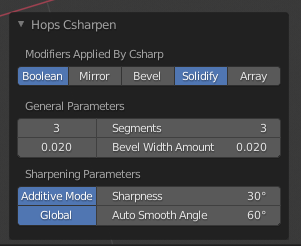
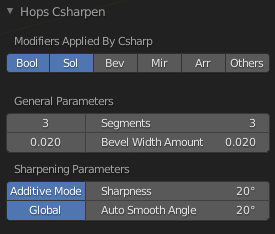
update

diff --git a/docs/csharpen.md b/docs/csharpen.md
@@ -15,14 +15,13 @@ Csharpen does the following things.
 
 If this sounds like the [ssharpen](ssharpen.md) that is because this is the complex version of that tool. Created at the same time for a more specific reason. **Sharpening / Applying modifiers / Setting up bevels.**
 
-This may sound strange but it allows for a very itterative forward workflow with boolean based workflows.
+This may sound strange but it allows for a very iterative forward workflow with boolean based workflows.
 
 Below is an example of it in action.
 
 ![csharpen](img/csharpen/c1.gif)
 
-In the above example I used simple cubes to boolean into the main shape. Then using cSharpen I was able to both bevel the form and apply the boolean modifier. After that I used another cube to boolean and when cSharpening it was able to ignore the bevel modifier and apply the boolean. This is a process I rinse and repeat to keep adding detail. In my opinion this is the best approach in blender for creating [such detail](http://www.neilblevins.com/cg_education/areas_of_visual_rest/areas_of_visual_rest.htm) in a focused manner with the fewest amount of keystrokes. Of course there is also adaptive subidivision and displacement however thats outside of the scope of this guide.
-
+In the above example I used simple cubes to boolean into the main shape. Then using cSharpen I was able to both bevel the form and apply the boolean modifier. After that I used another cube to boolean and when cSharpening it was able to ignore the bevel modifier and apply the boolean. This is a process I rinse and repeat to keep adding detail. In my opinion this is the best approach in blender for creating [such detail](http://www.neilblevins.com/cg_education/areas_of_visual_rest/areas_of_visual_rest.htm) in a focused manner with the fewest amount of keystrokes. Of course there is also adaptive subdivision and displacement however that is outside of the scope of this guide.
 
 ---
 
@@ -32,11 +31,20 @@ The F6 menu has options that are similar to [ssharpen](ssharpen.md) with a few a
 
 ![csharpen](img/csharpen/c2.png)
 
-- Modifiers (hold <kbd>shift</kbd> to select / deselect) defaults generally are fine with the exception of sometimes ignoring solidify as well
+- Modifiers defaults generally are fine with the exception of sometimes ignoring solidify as well when needed
+  - Booleans - csharp was born to apply booleans (on by default)
+  - Solidify - typically applied but by unchecking this will keep solidify live when needed
+  - Bevel - when checked will apply bevels using vertex groups and ignore angle and bevel weight mods initially
+  - Mirror - mirror is typically kept live but clicking mirror will make csharp apply mirror
+  - Array - array is typically kept live but clicking array will make csharp apply mirror
+  - Others - Triangulate / Subdivision / Screw and other mods related to non-d construction can now be applied here
 - general parameters - adjustments to cSharp
   - the left numbers are global parameters. Changing those will make csharp remember next time.
   - instance numbers - for changing the behavior of csharp for this one instance
 - sharpness - same reasons as [ssharpen](ssharpen.md)
+- autosmooth angle - angle the autosmooth will be set to by csharpen
+
+> Uncheck global to keep the initial autosmooth set manually by you the user.
 
 ---
 
@@ -51,6 +59,62 @@ By default it ignores the bevel modifier. Under no circumstances do we apply the
 With solidify it can be useful to keep the solidify live for non destructive workflows.
 
 ![csharpen](img/csharpen/c4.gif)
+
+---
+
+## Csharpen with Non-D Objects
+
+Csharp now has support for non-destructive objects and can be used in applying the modifiers and moving the object forward with a boolean or bevelling workflow.
+
+> Keep in mind if you want to simple "add a bevel". Ctrl + click bwidth (angle 30) or ctrl + shift + click bwidth (angle 60) bevel mod added. When csharp is used the goal is to apply modifiers and set it up for a boolean / bevel workflow.
+
+In this example a simple non-d object is created.
+
+![csharpen](img/csharpen/c5.gif)
+
+By checking bevel and other the shape can be applied and converted for a boolean workflow.
+
+> Applying everything like this is not necessary since bevels could be stacked on bevels with multiple levels nondestructively.
+
+![csharpen](img/csharpen/c6.gif)
+
+---
+
+## Csharp w/ Bevel Vgroup
+
+Special care was taken to make csharp capable of applying vgroup bevel modifiers when needed.
+
+![csharpen](img/csharpen/c7.gif)
+
+> This can be useful for transitioning from non-destructive to destructive.
+
+---
+
+# Additional Csharp Tips
+
+Csharp has pre-emptive properties in the workflow area of the HOPS N Panel or the ctrl + ~ helper workflow area. These can be used to adjust the behavior of csharp before it is even used.
+
+![csharpen](img/csharpen/c8.png)
+
+WN - weighted normal mod will be added with csharp. (Off by default)
+![csharpen](img/csharpen/csharp1.gif)
+
+HN - will check the harden normal box on the bevel modifier when they are added.
+![csharpen](img/csharpen/csharp2.gif)
+
+Sharp options pertain to markings. On edges meeting the "sharpness" threshold, the following edge markings will be performed.
+- crease (crease at 1 to resist sub-d)
+- seam (easy region selection with L in face mode)
+- bweight (bevel weighted workflows where bevel is able to be controlled)
+- sharp (shading override for sharp shading)
+
+![csharpen](img/csharpen/csharp3.gif)
+
+The Global box will ensure ssharp and csharp override the autosmooth angle when ran. Unchecking global will keep the value on the user defined value. This can be useful when using a particular autosmooth and you dont want the workflow disturbed.
+
+> Notice how when Global is toggled off the csharp/ssharp operation will retain the autosmooth of the user.
+
+![csharpen](img/csharpen/csharp4.gif)
 
 ---
 

diff --git a/docs/mirror_symmetry.md b/docs/mirror_symmetry.md
@@ -11,7 +11,7 @@ Boolean workflows having bisecting mirror modifiers isn't ever ideal. With the n
 
 The mirror tool can be brought up with <kbd>Alt</kbd> + <kbd>X</kbd>
 
-The axis clicked on is the one intended to be kept.
+The axis clicked on is the one intended to be kept. Shift clicking will use multiple axis.
 
  ![mirror](img/mirror/mmm1.gif)
 
@@ -40,6 +40,12 @@ This one is one and done mirroring. It will mirror in the moment and not a secon
 ![mirror](img/mirror/m4.gif)
 
 > As the modifier stack in the n panel shows no mirror was created while symmetrizing. Making it the fastest way to mirror one side to the other.
+
+# Using Multiple Axis
+
+During interactive mirror pressing shift will add the axis clicked to the list and keep the operation going. This allows users to select more than 1 axis to mirror.
+
+![mirror](img/mirror/m12.gif)
 
 ### Two Object Interactive Mirror
 
